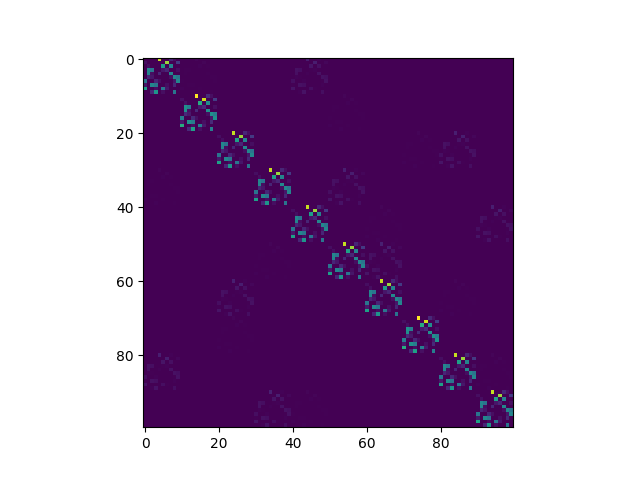
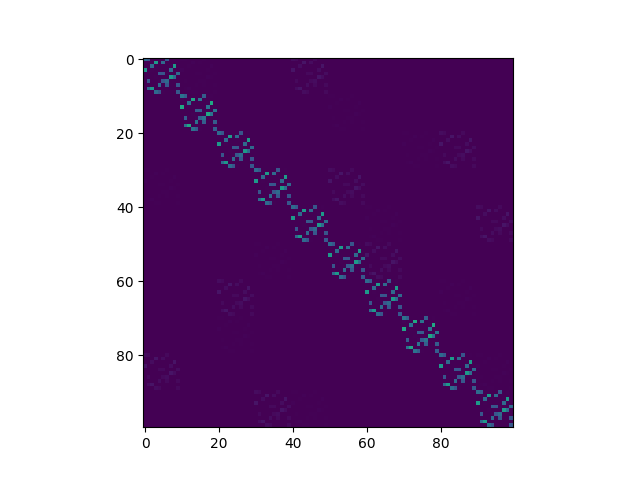
updates

Changed region(s): [[0.2188, 0.125, 0.625, 0.6562], [0.625, 0.6562, 0.8125, 0.9062]]

diff --git a/analyse.py b/analyse.py
@@ -1,17 +1,18 @@
-from plotnine import ggplot, aes, geom_line, facet_grid, stat_summary
+from plotnine import ggplot, aes, geom_line, geom_point, facet_grid, stat_summary
 from plotnine.scales import scale_y_log10, scale_x_log10
 from scipy.optimize import curve_fit
 import pandas as pd
 import numpy as np
+import argparse
 import os
 
 
 def power_law_fit(n, C, alpha, K):
-    return C * n**(-alpha) + K
+    return C * n**(-alpha) + 0
 
 
 def analyse_folder(
-    directory="logs/titrate-1/"
+    directory="logs/titrate-hmm0/"
 ):
     # load data
     for suffix in ['', '-8', '-12']:
@@ -36,12 +37,14 @@ def analyse_folder(
 
         df = pd.concat(dfs)
 
-        # add one to shots to avoid log(0)
-        df.loc[:, 'shots'] = df['shots'] + 1
+        # format df
+        df.loc[:, 'shots'] = df['shots'] + 1 # add one to shots to avoid log(0)
+        df.loc[:, 'hmm'] = df['hmm'].astype('category') # set hmm column to categorical
 
         # get power law fit
         print(f"Power law fit for {folder}{suffix}")
         power_law_params = {}
+        power_law_params_list = []
         for perc in df['perc'].unique():
             # print(perc)
             for k in df['k'].unique():
@@ -50,16 +53,24 @@ def analyse_folder(
                     subset = df[(df['perc'] == perc) & (df['hmm'] == hmm) & (df['k'] == k)]
 
                     # fit power law
-                    params = [1.0, 1.0, 1.0]
+                    params = [5.0, 0.5, 0.0]
                     popt, pcov = curve_fit(power_law_fit, subset['shots'], subset['nll'], p0=params, maxfev=10000)
                     C, alpha, K = popt
                     # print(f"{perc} -- {k}, {hmm}: C={C}, α={alpha}, K={K}")
 
                     # store
                     power_law_params[(perc, k, hmm)] = (C, alpha, K)
+                    power_law_params_list.append({
+                        "perc": perc,
+                        "k": k,
+                        "hmm": hmm,
+                        "C": C,
+                        "alpha": alpha,
+                        "K": K
+                    })
             #     print()
             # print('-------------------')
-        
+
         # store power law estimates in df
         def estimate_nll(row):
             C, alpha, K = power_law_params[(row['perc'], row['k'], row['hmm'])]
@@ -72,7 +83,7 @@ def analyse_folder(
             facet_grid("k~hmm") +
             stat_summary(geom="line")
         )
-        plot.save(f"in_context_probs{suffix}.pdf")
+        plot.save(f"{directory}/in_context_probs{suffix}.pdf")
 
         plot = (
             ggplot(df) +
@@ -81,12 +92,25 @@ def analyse_folder(
             stat_summary(aes(x="shots", y="nll", color="perc"), geom="point", size=1.0, stroke=0, alpha=0.4) +
             scale_y_log10() + scale_x_log10()
         )
+        plot.save(f"{directory}/in_context_probs_nll{suffix}.pdf")
 
-        plot.save(f"in_context_probs_nll{suffix}.pdf")
+        power_law_params_df = pd.DataFrame(power_law_params_list)
+        power_law_params_df.to_csv(f"{directory}/power_law_params{suffix}.csv", index=False)
+        plot = (
+            ggplot(power_law_params_df) +
+            facet_grid("~k") +
+            stat_summary(aes(x="perc", y="alpha", color="hmm", group="hmm"), geom="line") +
+            geom_point(aes(x="perc", y="alpha", color="hmm"))
+        )
+        plot.save(f"{directory}/power_law_params{suffix}.pdf")
 
 
 def main():
-    analyse_folder()
+    parser = argparse.ArgumentParser(description='Analyse results')
+    parser.add_argument('--directory', type=str, default="logs/titrate-hmm0/", help='Directory to analyse')
+    args = parser.parse_args()
+
+    analyse_folder(**vars(args))
 
 
 if __name__ == "__main__":

diff --git a/train.py b/train.py
@@ -3,7 +3,7 @@ import torch
 import transformers
 from dataclasses import dataclass, field, asdict
 from typing import Optional
-from data import HMMDataset, MixtureOfHmms, HMMInContextDataset
+from data import HMMDataset, MixtureOfHmms, HMMInContextDataset, softmax
 from copy import deepcopy
 import numpy as np
 from collections import defaultdict
@@ -69,6 +69,7 @@ def in_context_eval(trainer, in_context_dataset, k):
     # 0  1  2  3 4  5  6  7 8  9  10
     #    ^          ^          ^
     # we eval at ^
+    # start at k - 2, step is k + 1
 
     subsets = in_context_dataset.make_subsets()
     in_context_probs = []
@@ -132,20 +133,25 @@ def train():
             )
             print(f"in_context_datasets[{k}]:", len(in_context_datasets[k]))
 
+        # label smooth
+        hmms_smoothed = hmms.to_label_smoothed(alpha=0.95)
+
         # in-context eval
         for k, in_context_dataset in in_context_datasets.items():
             subsets = in_context_dataset.make_subsets()
             for hmm, subset in subsets.items():
                 for sequence in tqdm(subset):
                     seq = sequence['input_ids']
+                    scores = np.zeros(len(subsets))
                     for i in range(k - 2, len(seq), k + 1):
-                        subseq = seq[0:i + 1]
+                        subseq = seq[i - (k - 2):i + 2]
                         shots = i // (k + 1)
-                        score = hmms.score(subseq)
+                        score = hmms_smoothed.score(subseq)
+                        scores += score
                         data.append({
                             "shots": shots,
-                            "prob": score[hmm],
-                            "acc": 1 if (np.argmax(score) == hmm) else 0,
+                            "prob": softmax(scores)[hmm],
+                            "acc": 1 if (np.argmax(scores) == hmm) else 0,
                             "nll": 0,
                             "hmm": str(hmm),
                             "sft": False,

diff --git a/data.py b/data.py
@@ -131,10 +131,6 @@ class XieHMM:
         self.hmm.transmat_ = transmat
         self.hmm.emissionprob_ = emissionprob
 
-        # plot transmat
-        plt.imshow(transmat)
-        plt.savefig("transmat.png")
-
 
     def sample_from_hmm(self, length: int, seed=None):
         x, h = self.hmm.sample(n_samples=length, random_state=seed)
@@ -205,8 +201,24 @@ class MixtureOfHmms:
     
 
     def score(self, emissions: list[int]):
-        scores = [np.log(self.weights[i]) + self.hmms[i].score(emissions) for i in range(self.num_hmms)]
+        scores = np.array([np.log(self.weights[i]) + self.hmms[i].score(emissions) for i in range(self.num_hmms)])
         return scores
+    
+
+    def to_label_smoothed(self, alpha: float=0.01):
+        # plot transmat
+        plt.imshow(self.hmms[0].hmm.transmat_, vmin=0, vmax=1)
+        plt.savefig("transmat.png")
+
+        smoothed_mixture = deepcopy(self)
+        for hmm in smoothed_mixture.hmms:
+            hmm.hmm.transmat_ = (1 - alpha) * hmm.hmm.transmat_ + alpha / hmm.hmm.transmat_.shape[0]
+
+        # plot transmat
+        plt.imshow(smoothed_mixture.hmms[0].hmm.transmat_, vmin=0, vmax=1)
+        plt.savefig("smoothedtransmat.png")
+
+        return smoothed_mixture
 
     
 
